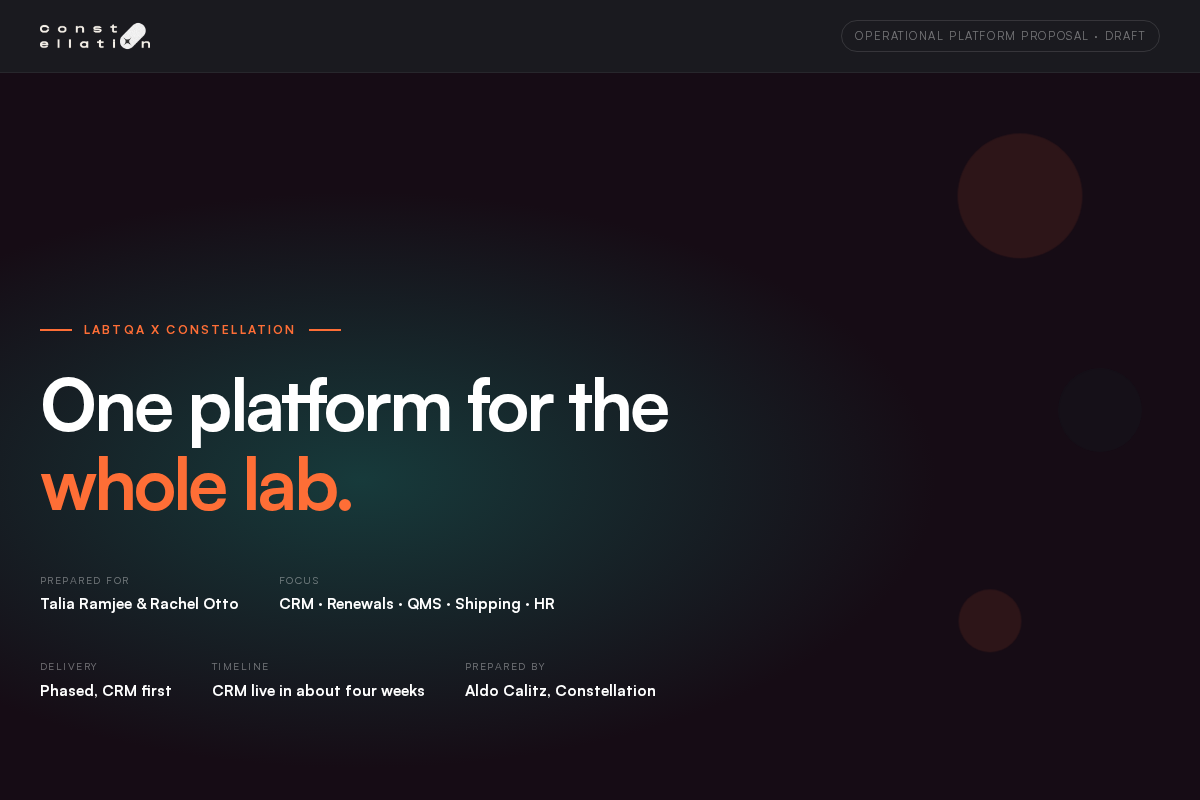
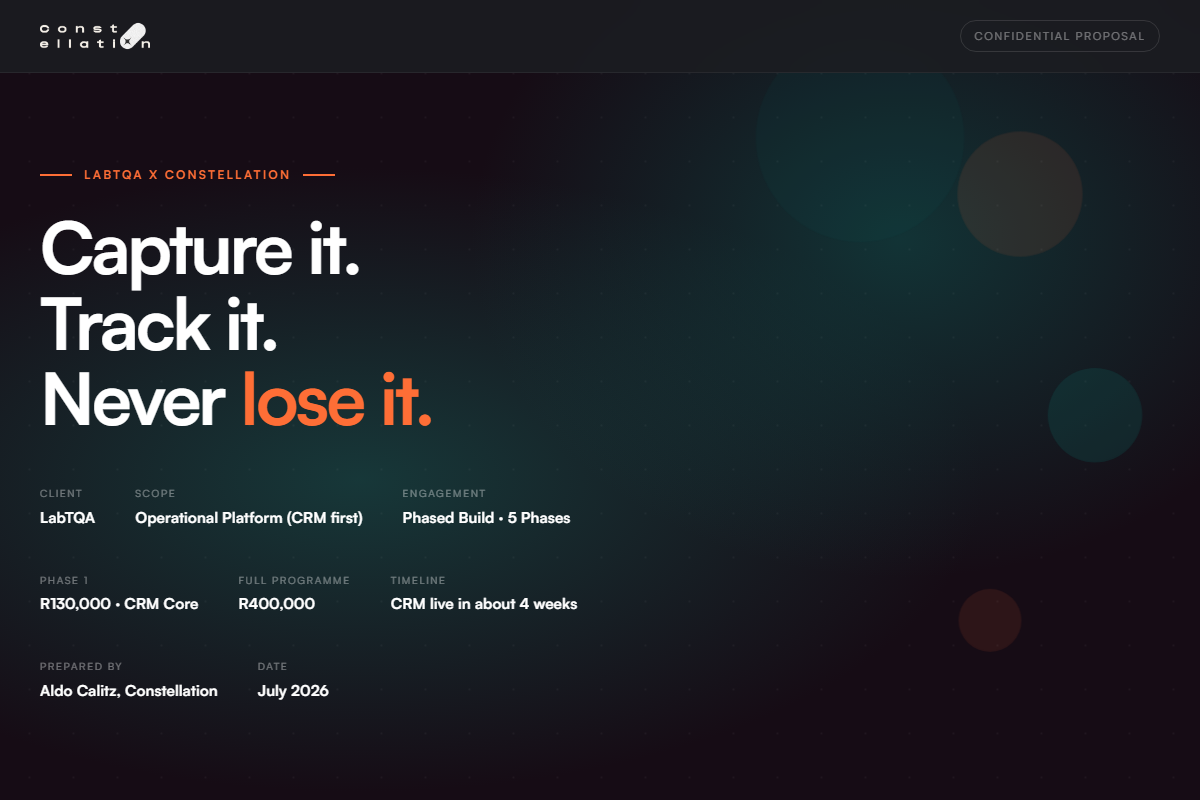
LabTQA proposal: working contact-form CTA + refreshed preview
Replace the mailto-only CTA with a FormSubmit-backed contact form (name, email,
message) that emails hello@uxconstellation.com on every submission, with a
mailto fallback and a thank-you state. Regenerate preview.png from the current
MeAlign page.

diff --git a/proposals/labtqa/index.html b/proposals/labtqa/index.html
@@ -203,6 +203,18 @@
     .btn-submit::before { content: ''; position: absolute; inset: 0; background: rgba(255,255,255,0.12); transform: translateX(-101%); transition: transform 0.35s ease; }
     .btn-submit:hover::before { transform: translateX(0); }
 
+    /* CTA FORM */
+    .cta-form { display: flex; flex-direction: column; gap: 0.85rem; max-width: 460px; margin: 0 auto 1.25rem; text-align: left; }
+    .cta-form input, .cta-form textarea { width: 100%; background: rgba(255,255,255,0.05); border: 1px solid rgba(255,255,255,0.12); border-radius: 12px; padding: 0.85rem 1rem; color: var(--white); font-family: 'Satoshi', sans-serif; font-size: 0.92rem; transition: border-color 0.2s ease; }
+    .cta-form input::placeholder, .cta-form textarea::placeholder { color: rgba(255,255,255,0.4); }
+    .cta-form input:focus, .cta-form textarea:focus { outline: none; border-color: var(--orange); }
+    .cta-form textarea { resize: vertical; min-height: 92px; }
+    .cta-form .btn-submit { width: 100%; justify-content: center; margin-top: 0.25rem; }
+    .cta-hp { position: absolute; left: -9999px; width: 1px; height: 1px; overflow: hidden; }
+    .cta-alt { font-size: 0.82rem; color: rgba(255,255,255,0.5); }
+    .cta-alt a { color: var(--orange); text-decoration: none; }
+    .cta-thanks { font-size: 1.1rem; color: var(--orange); font-weight: 700; margin-bottom: 1.5rem; }
+
     /* FOOTER */
     footer { background: var(--black); border-top: 1px solid rgba(255,255,255,0.07); padding: 2.5rem; }
     .footer-inner { max-width: 1100px; margin: 0 auto; display: flex; align-items: center; justify-content: space-between; gap: 2rem; flex-wrap: wrap; }
@@ -703,9 +715,18 @@
         <div class="step-item"><div class="step-num">04</div><p>Go live and beyond. The CRM live, renewals next, and the retainer keeping it fast, compliant, and evolving.</p></div>
       </div>
 
-      <a href="mailto:hello@uxconstellation.com?subject=LabTQA%20Operational%20Platform&body=Hi%20Aldo%2C%0A%0AWe%27ve%20reviewed%20the%20proposal%20and%20we%27d%20like%20to%20move%20forward.%0A%0APlease%20send%20the%20NDA%20and%20Statement%20of%20Work.%0A%0AKind%20regards%2C%0A" class="btn-submit">
-        Start the conversation &rarr;
-      </a>
+      <form class="cta-form" action="https://formsubmit.co/hello@uxconstellation.com" method="POST">
+        <input type="hidden" name="_subject" value="New LabTQA proposal enquiry" />
+        <input type="hidden" name="_template" value="table" />
+        <input type="hidden" name="_captcha" value="false" />
+        <input type="hidden" name="_next" value="https://uxconstellation.github.io/constellation-proposals/proposals/labtqa/?sent=1" />
+        <input type="text" name="name" placeholder="Your name" required />
+        <input type="email" name="email" placeholder="Your email" required />
+        <input type="text" name="_honey" class="cta-hp" tabindex="-1" autocomplete="off" />
+        <textarea name="message" placeholder="Anything you would like us to know (optional)"></textarea>
+        <button type="submit" class="btn-submit">Start the conversation &rarr;</button>
+      </form>
+      <p class="cta-alt">Or email <a href="mailto:hello@uxconstellation.com?subject=LabTQA%20Operational%20Platform">hello@uxconstellation.com</a> directly.</p>
     </div>
   </section>
 
@@ -719,6 +740,12 @@
   </footer>
 
   <script>
+    // CTA form: show a confirmation after FormSubmit redirects back with ?sent=1
+    if (new URLSearchParams(location.search).has('sent')) {
+      const f = document.querySelector('.cta-form');
+      if (f) f.outerHTML = '<p class="cta-thanks">Thank you. We will be in touch shortly.</p>';
+    }
+
     // Cursor spotlight: tracks mouse position per card as CSS vars
     const spotlightTargets = document.querySelectorAll('.challenge-item, .tech-item, .pricing-card, .sla-item, .step-item');
     spotlightTargets.forEach(el => {
